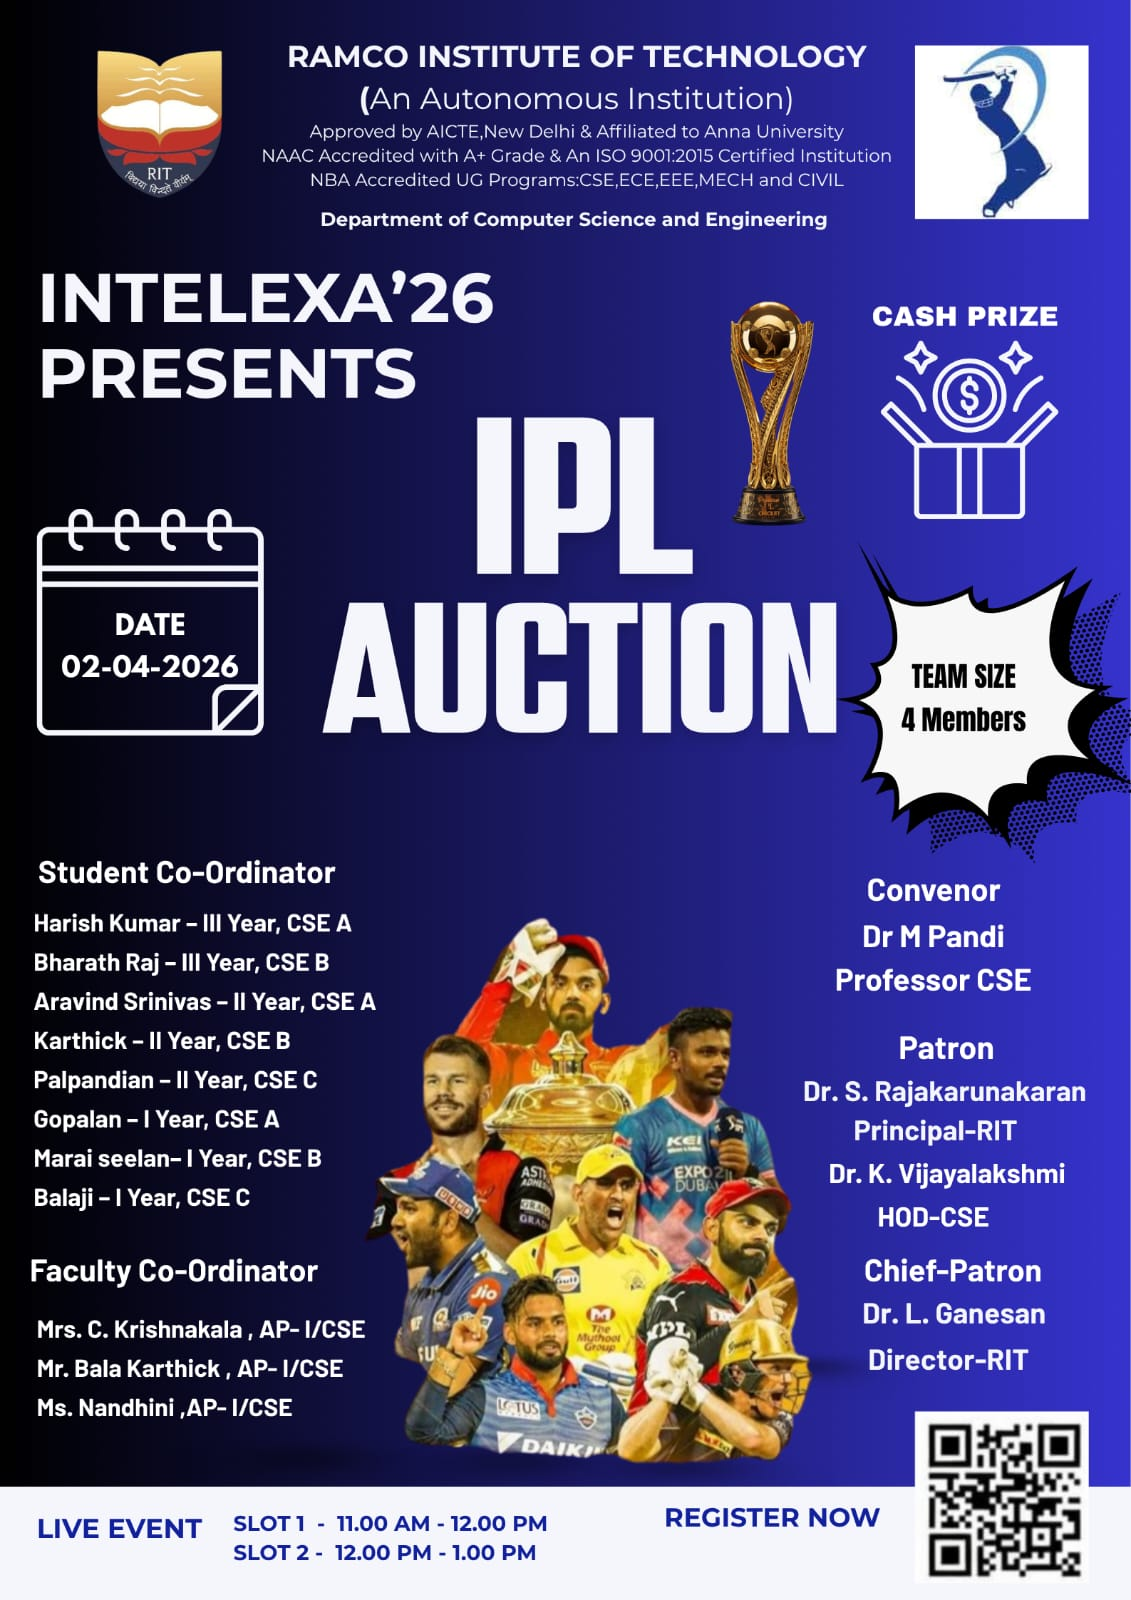
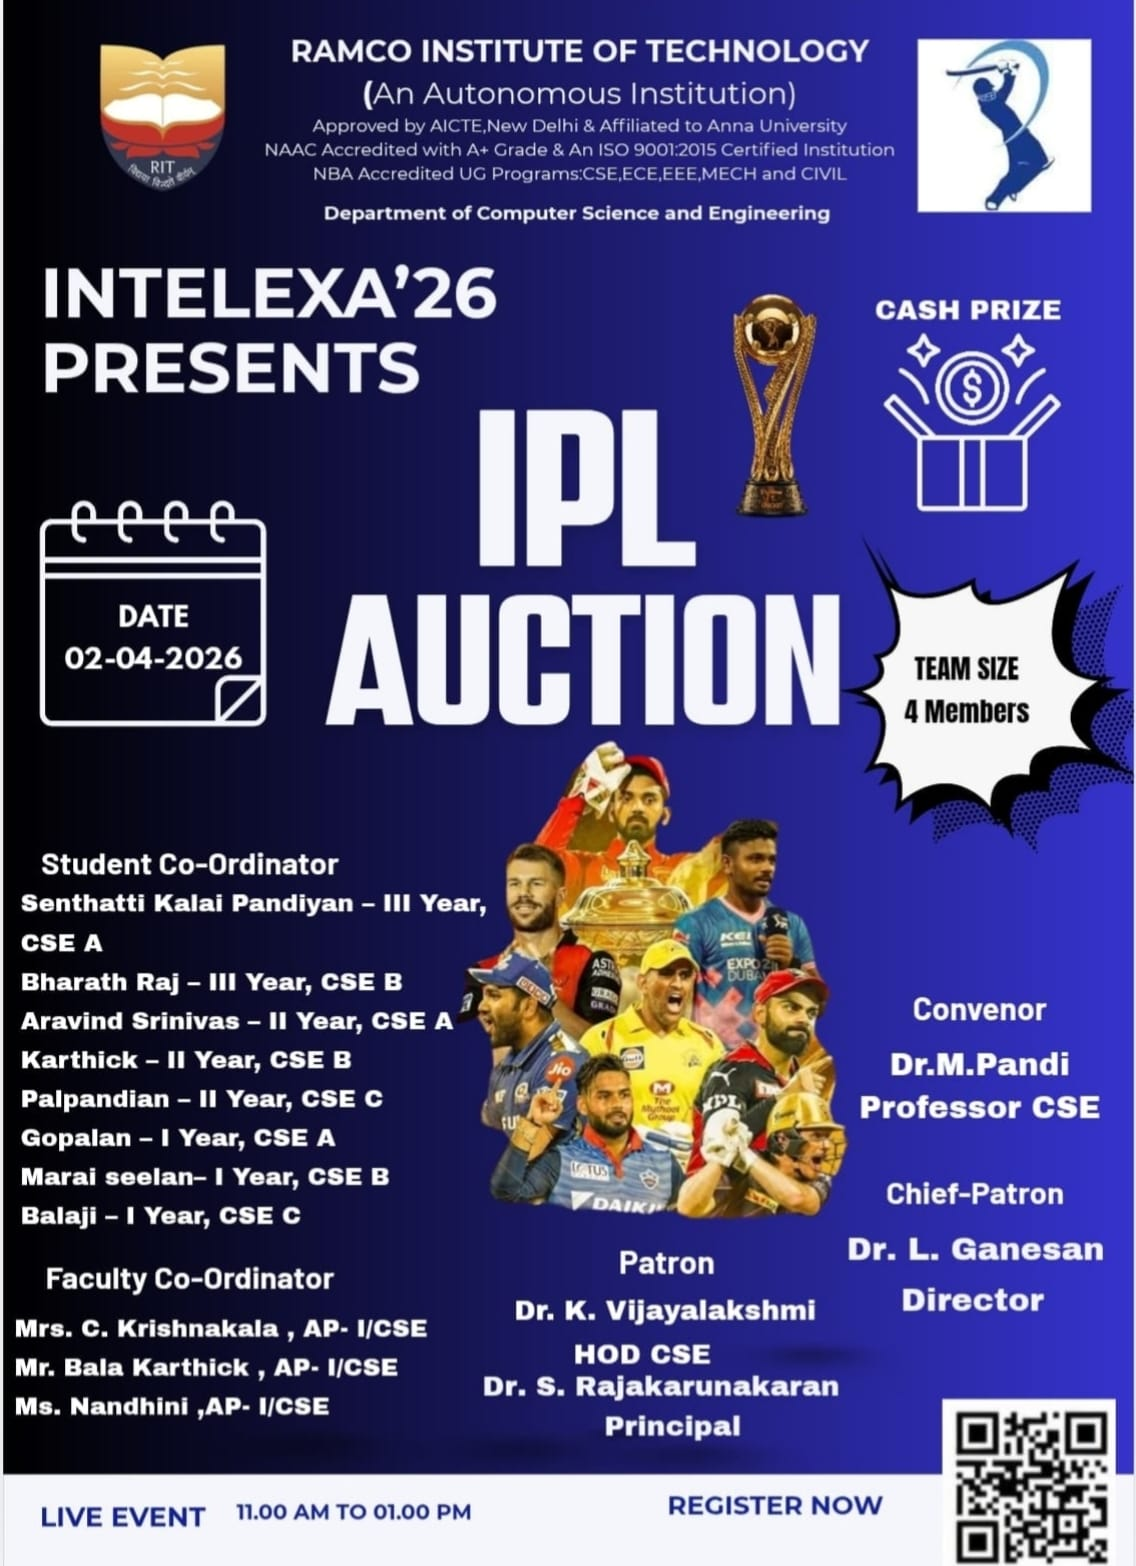
Update IPL Auction coordinator name

diff --git a/event-details.html b/event-details.html
@@ -911,7 +911,7 @@ Shortlisted participants will develop a functional and visually appealing webpag
           { name: 'Mrs.C.Krishna kala, AP - I/CSE', type: 'faculty' },
           { name: 'Mr.Bala Karthick, AP - I/CSE', type: 'faculty' },
           { name: 'Ms.Nandhini, AP-I/CSE', type: 'faculty' },
-          { name: 'Harish Kumar III Year - CSE A', type: 'student' },
+          { name: 'Senthatti Kalai Pandian III Year CSE A', type: 'student' },
           { name: 'Bharath Raj III Year - CSE B', type: 'student' },
           { name: 'Aravind Srinivas II Year - CSE A', type: 'student' },
           { name: 'Karthick II Year - CSE B', type: 'student' },
